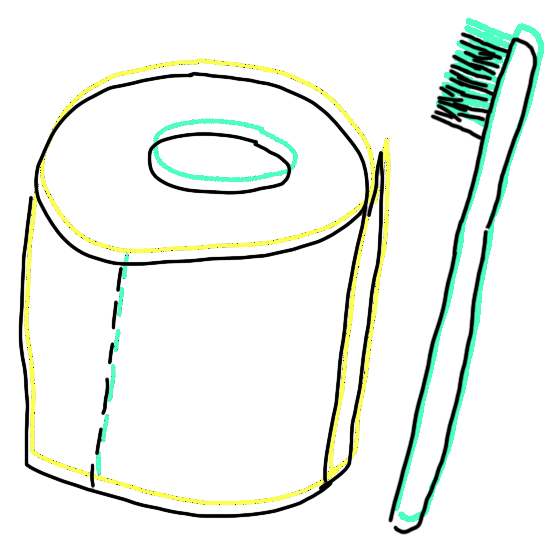
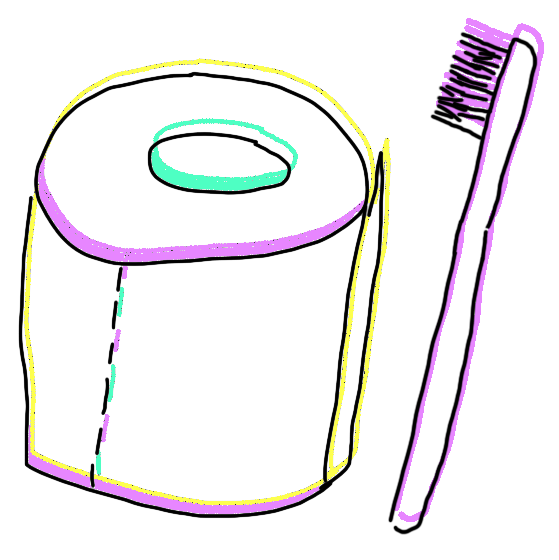
fixed drawing positioning sort of

diff --git a/BobandRoss.html b/BobandRoss.html
@@ -33,7 +33,7 @@
             <p>It wasn&rsquo;t long before I got a text from Bob saying it was safe to go back into the room. Once again, I gathered my stuff and headed down the hall. There was nobody in the room when I got there. There was almost no evidence that they had been there at all. Except for one thing: they left behind one of the most rank smells I have ever smelled in my life. If you&rsquo;ve ever smelled an old retainer, it was similar to that, only it was permeating throughout the room. It was borderline unbearable. Naturally, my mind tried to find an explanation, but I could only think of one thing.</p>
             <p>Despite the smell, I stayed at my desk and attempted to focus on anything but the obvious fact about what had just occurred in my room. It wasn&rsquo;t long before Bob walked in looking a bit down again, much to my surprise. He told me that, once again, he and Ross were done. This was completely unexpected to me, but I did my best to cheer him up yet again (although I&rsquo;ll admit it probably wasn&rsquo;t very effective). To this day, I still wonder about what happened in my room that night. There must have been <a href="https://www.youtube.com/watch?v=pwTzHbIXSlI">SOMETHING</a>. Smells like that don&rsquo;t just appear out of nowhere. Did they have sex and it was so bad that Ross broke up with Bob on the spot? Or did they break up and have hate sex after? I guess I will never know. And maybe it&rsquo;s better that way.</p>
             <p>Bob and Ross did end up getting back together again a couple days later, and they have somehow managed to stay together ever since. I wouldn&rsquo;t be surprised if they have broken up a couple times, but have just kept it quiet. Either way, it doesn&rsquo;t matter because they always seem to find their way back to each other. Which is honestly really special. They&rsquo;re both fairly new to relationships, so they haven&rsquo;t mastered the etiquette completely yet (specifically in regards to PDA; everytime they kiss when it&rsquo;s just us three in the room I kind of want to jump out the window), but I&rsquo;m happy for Bob. Even though things started off shaky, they seemed to work out in the end. At least for now.</p>
-            <img style="width:20em; position:absolute; bottom:100px; right:-300px;" src="flowers.png" alt="drawing of flowers in a pot">
+            <img style="width:20em; clear:right; float:right;" src="flowers.png" alt="drawing of flowers in a pot">
           </div>
         <p><strong>artist</strong> / Hog Rider </p>
         <div class="bio">

diff --git a/howto.html b/howto.html
@@ -43,7 +43,7 @@
             <p>7. (Optional) DO NOT tell your other roommates for several months. While sneaking around is fun, this step is optional because the number of moments that cause near-heart attacks will undoubtedly shave at least a year off your life. Additionally, it may lead to gossip, questions, and discovery while doing something as innocuous as holding hands and walking down the street. Follow this step at your own discretion.</p>
             <p>8. Enjoy your new roommate-girlfriend! You may find that the activities you formerly found
 mundane will become fun, and at times, sexy. Making dinner, doing laundry, and even shopping for toilet paper can become an adventure if you do these things together. But of course, remember to take your roommate-girlfriend out on a real date every once in a while — she deserves it.</p>
-            <img style="width:15em; position:absolute; top:100px; right:-300px;" src="toilet.png" alt="drawing of a toilet paper roll and a toothbrush">
+            <img style="width:15em; clear:right; float:right;" src="toilet.png" alt="drawing of a toilet paper roll and a toothbrush">
           </div>
             <p><strong>artist</strong> / Anya Price </p>
             <div class="bio">

diff --git a/editorletter.html b/editorletter.html
@@ -30,6 +30,7 @@
               <p>At some point in our lives, we’ve all had to live with another person: Parents. Siblings. Dormmates. Significant others. But living with someone is more than sleeping under the same roof; there’s joy, pining, gossip, conflict, and more. Inspired by the 2014 Vine, “and they were roommates” is dedicated to the friction of living together, what happens (and doesn’t happen) behind a shared door. Break-up letters, petty confessions, winking erotica: this zine has all the possibilities there are when you think of the word “roommates.” We hope you enjoy the companionship of the page as you read through these stories, poems, and pictures.</p>
                 <br>
                 <p>There’s enough room here for all of us.</p>
+                <br>
                 <p>Editors</p>
                 <p>Austin Nguyen & Helia Woo</p>
             </div>

diff --git a/neutral.html b/neutral.html
@@ -38,7 +38,7 @@
             she was really doing when solar charging her crystals every morning was foolishly feeding into the corrupt jaws of capitalism.</p>
             <p>Instead, I swallow my words back. I tell her thank you, she smiles in response, and we each go back into our own rooms. I shut the door, set the amethyst in a drawer:
             Is this the key to world peace?</p>
-            <img style="position:absolute; width:20em; top:0px; left:-400px;" src="cooking.png" alt="a drawing of a pot, two spoons, and two bowls">
+            <img style="width:18em; clear:left; float:left;" src="cooking.png" alt="a drawing of a pot, two spoons, and two bowls">
           </div>
             <p><strong>artist</strong> / Zoie Burt </p>
             <div class="bio">

diff --git a/robot.html b/robot.html
@@ -44,7 +44,7 @@
               <p>Open doors for female robots and hold elevators</p>
               <p>open. Watch YouTube. Make eye contact with attractive robot. Simulate post eye-contact embarrassment. Email Professor without sounding angry. Simulate random hopefulness. Pray to robot God. Read cyborg manual. Unplug heart.</p>
             </div>
-            <img style="width:20em; position:absolute; bottom:100px; right:0px;" src="machine.png" alt="drawing of a laundry machine">
+            <img style="max-width:20em; clear:right; float:right;" src="machine.png" alt="drawing of a laundry machine">
           </div>
         <p><strong>artist</strong> / Cory Chen </p>
         <div class="bio">

diff --git a/atwnr.html b/atwnr.html
@@ -79,7 +79,7 @@ our beautiful foolishness–in all its delusional, stupid, terrible, and gloriou
       <p>Love (?),</p>
       <p>J</p>
     </div>
-    <img style="position:absolute; width:20em; bottom:500px; left:-350px;" src="book.png" alt="drawing of a book with scribbles in it">
+    <img style="width:20em; clear:left; float:left;" src="book.png" alt="drawing of a book with scribbles in it">
           </div>
             <p><strong>artist</strong> / Anonymous </p>
             <div class="bio">

diff --git a/livetogether.html b/livetogether.html
@@ -52,7 +52,7 @@
             <p>live apart</p>
             <p>hear you breathing</p>
             <p>in the dark</p>
-            <img style="width:20em; position:absolute; bottom:200px;right:300px;" src="door.png" alt="drawing of a door open to a sky of clouds">
+            <img style="width:20em; clear:right; float:right;" src="door.png" alt="drawing of a door open to a sky of clouds">
           </div>
         <p><strong>artist</strong> / Ari Rivera </p>
         <div class="bio">
